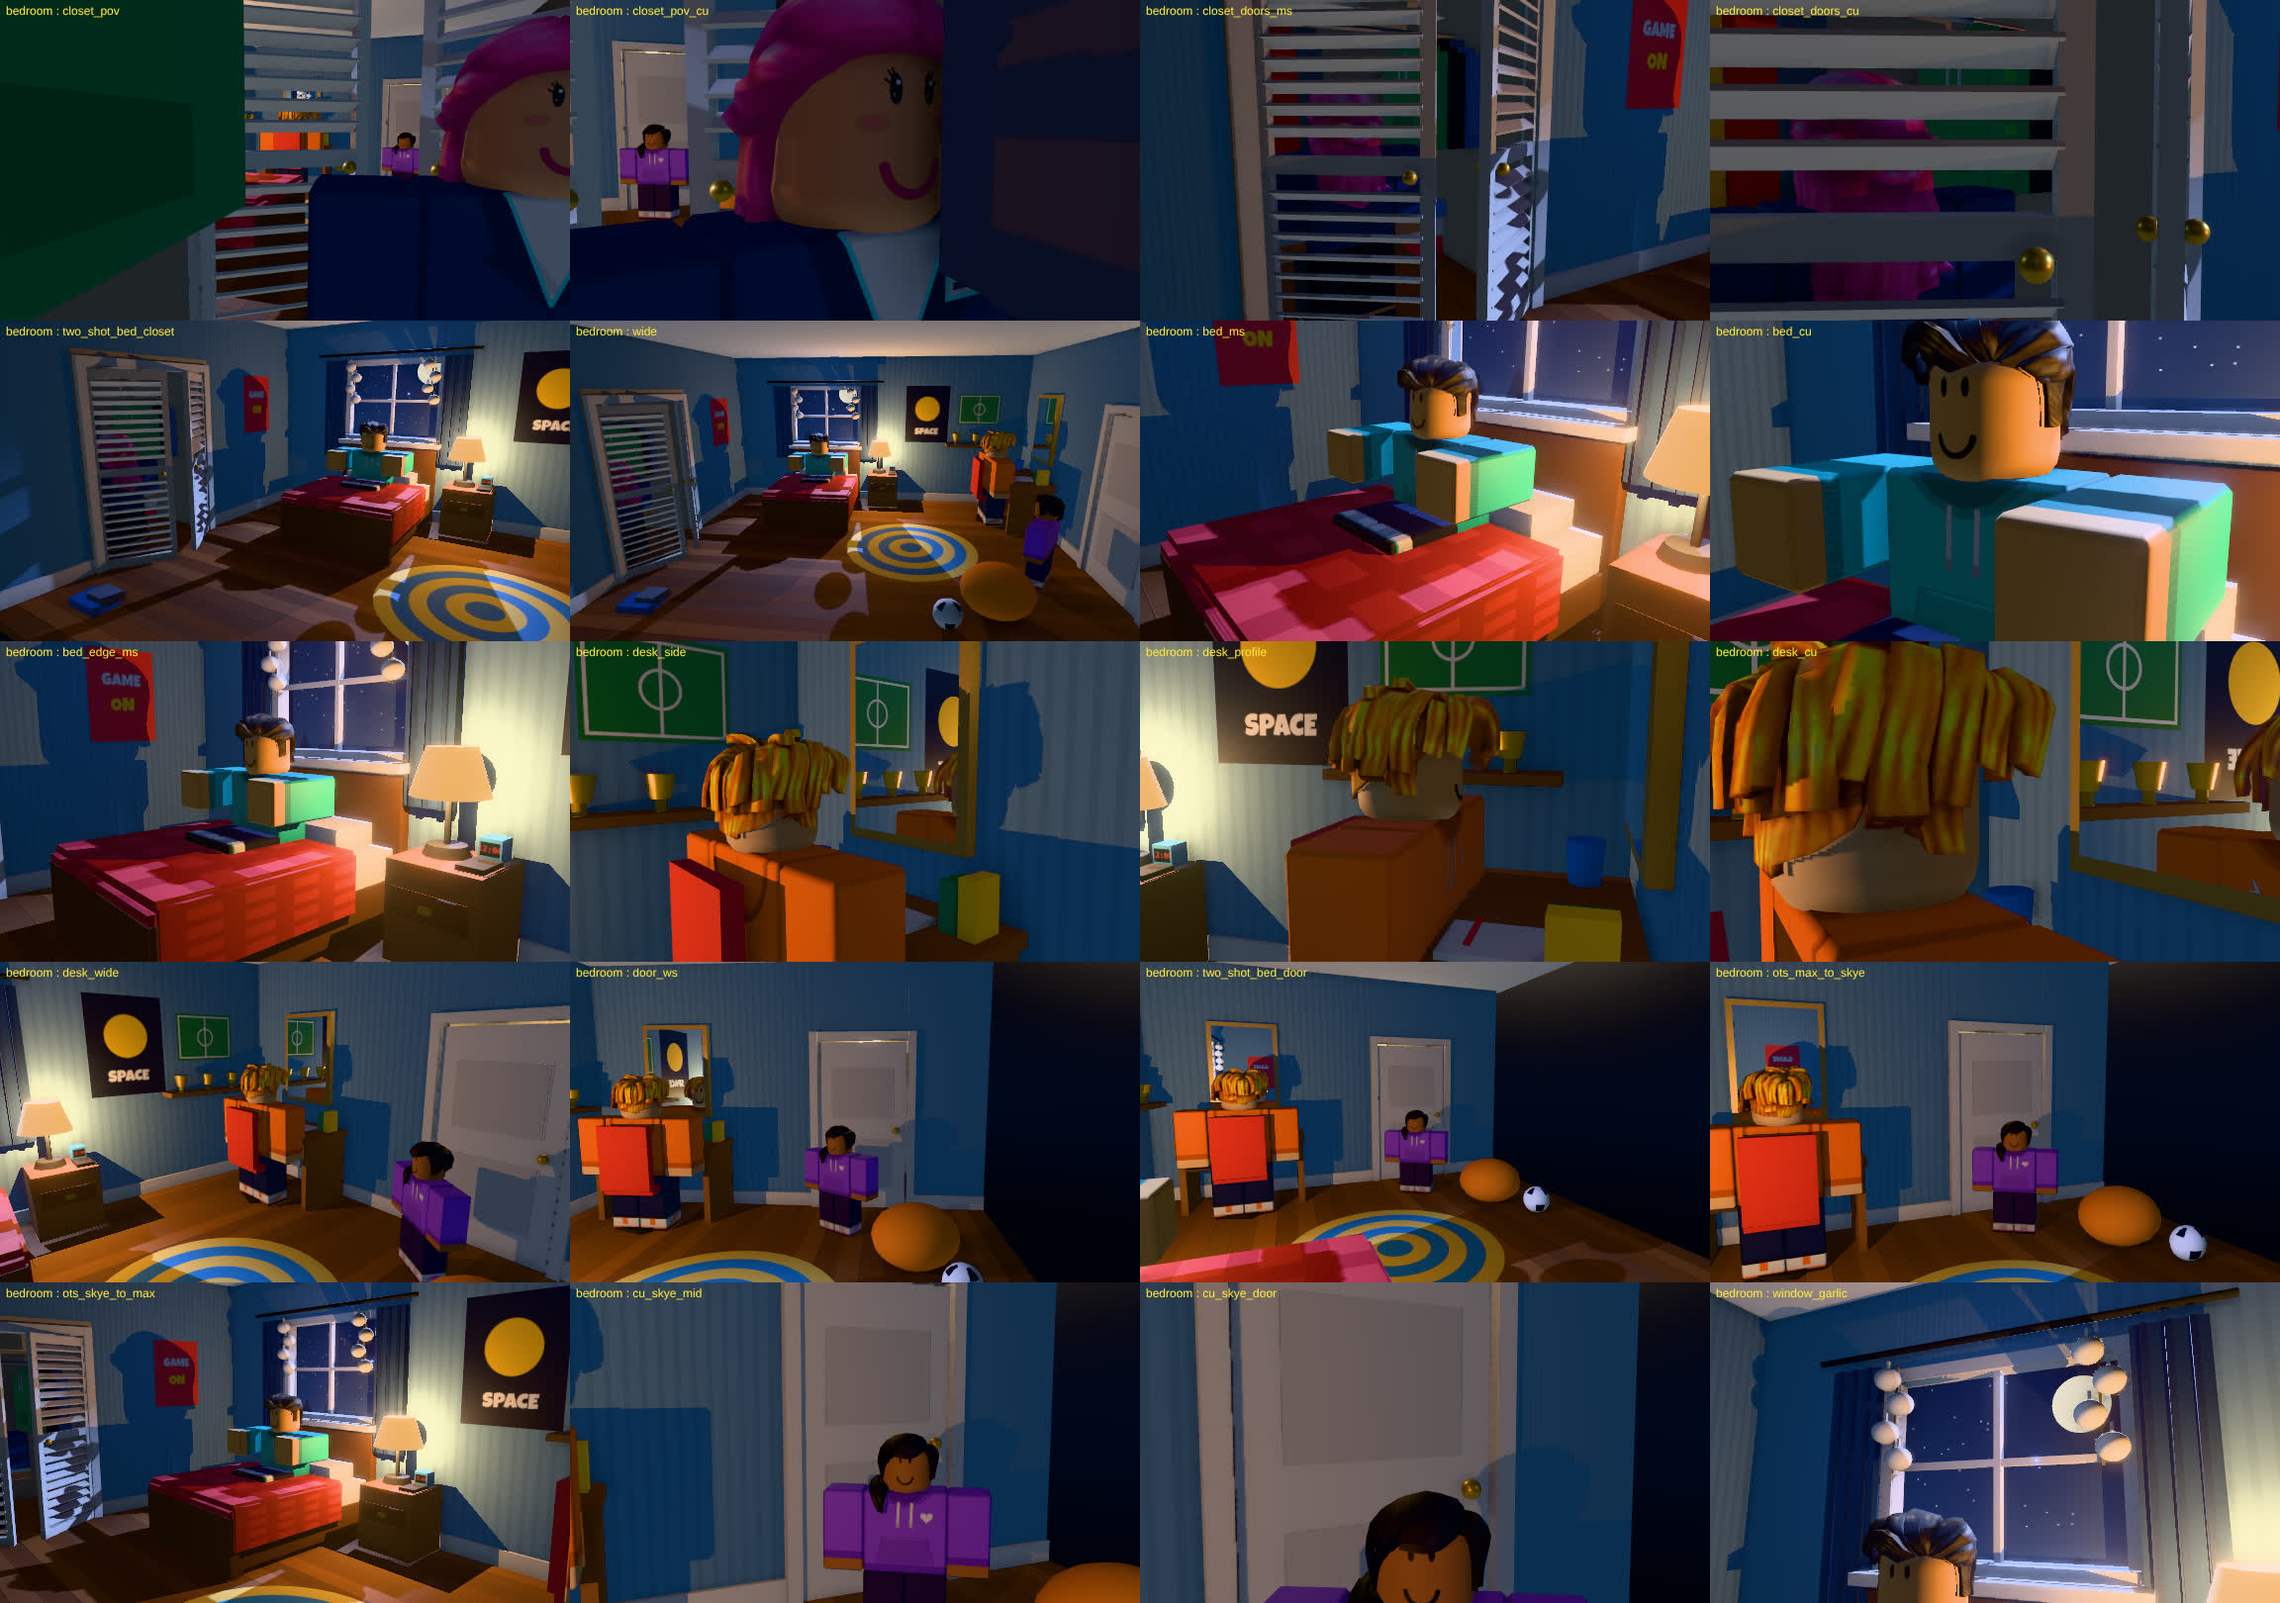
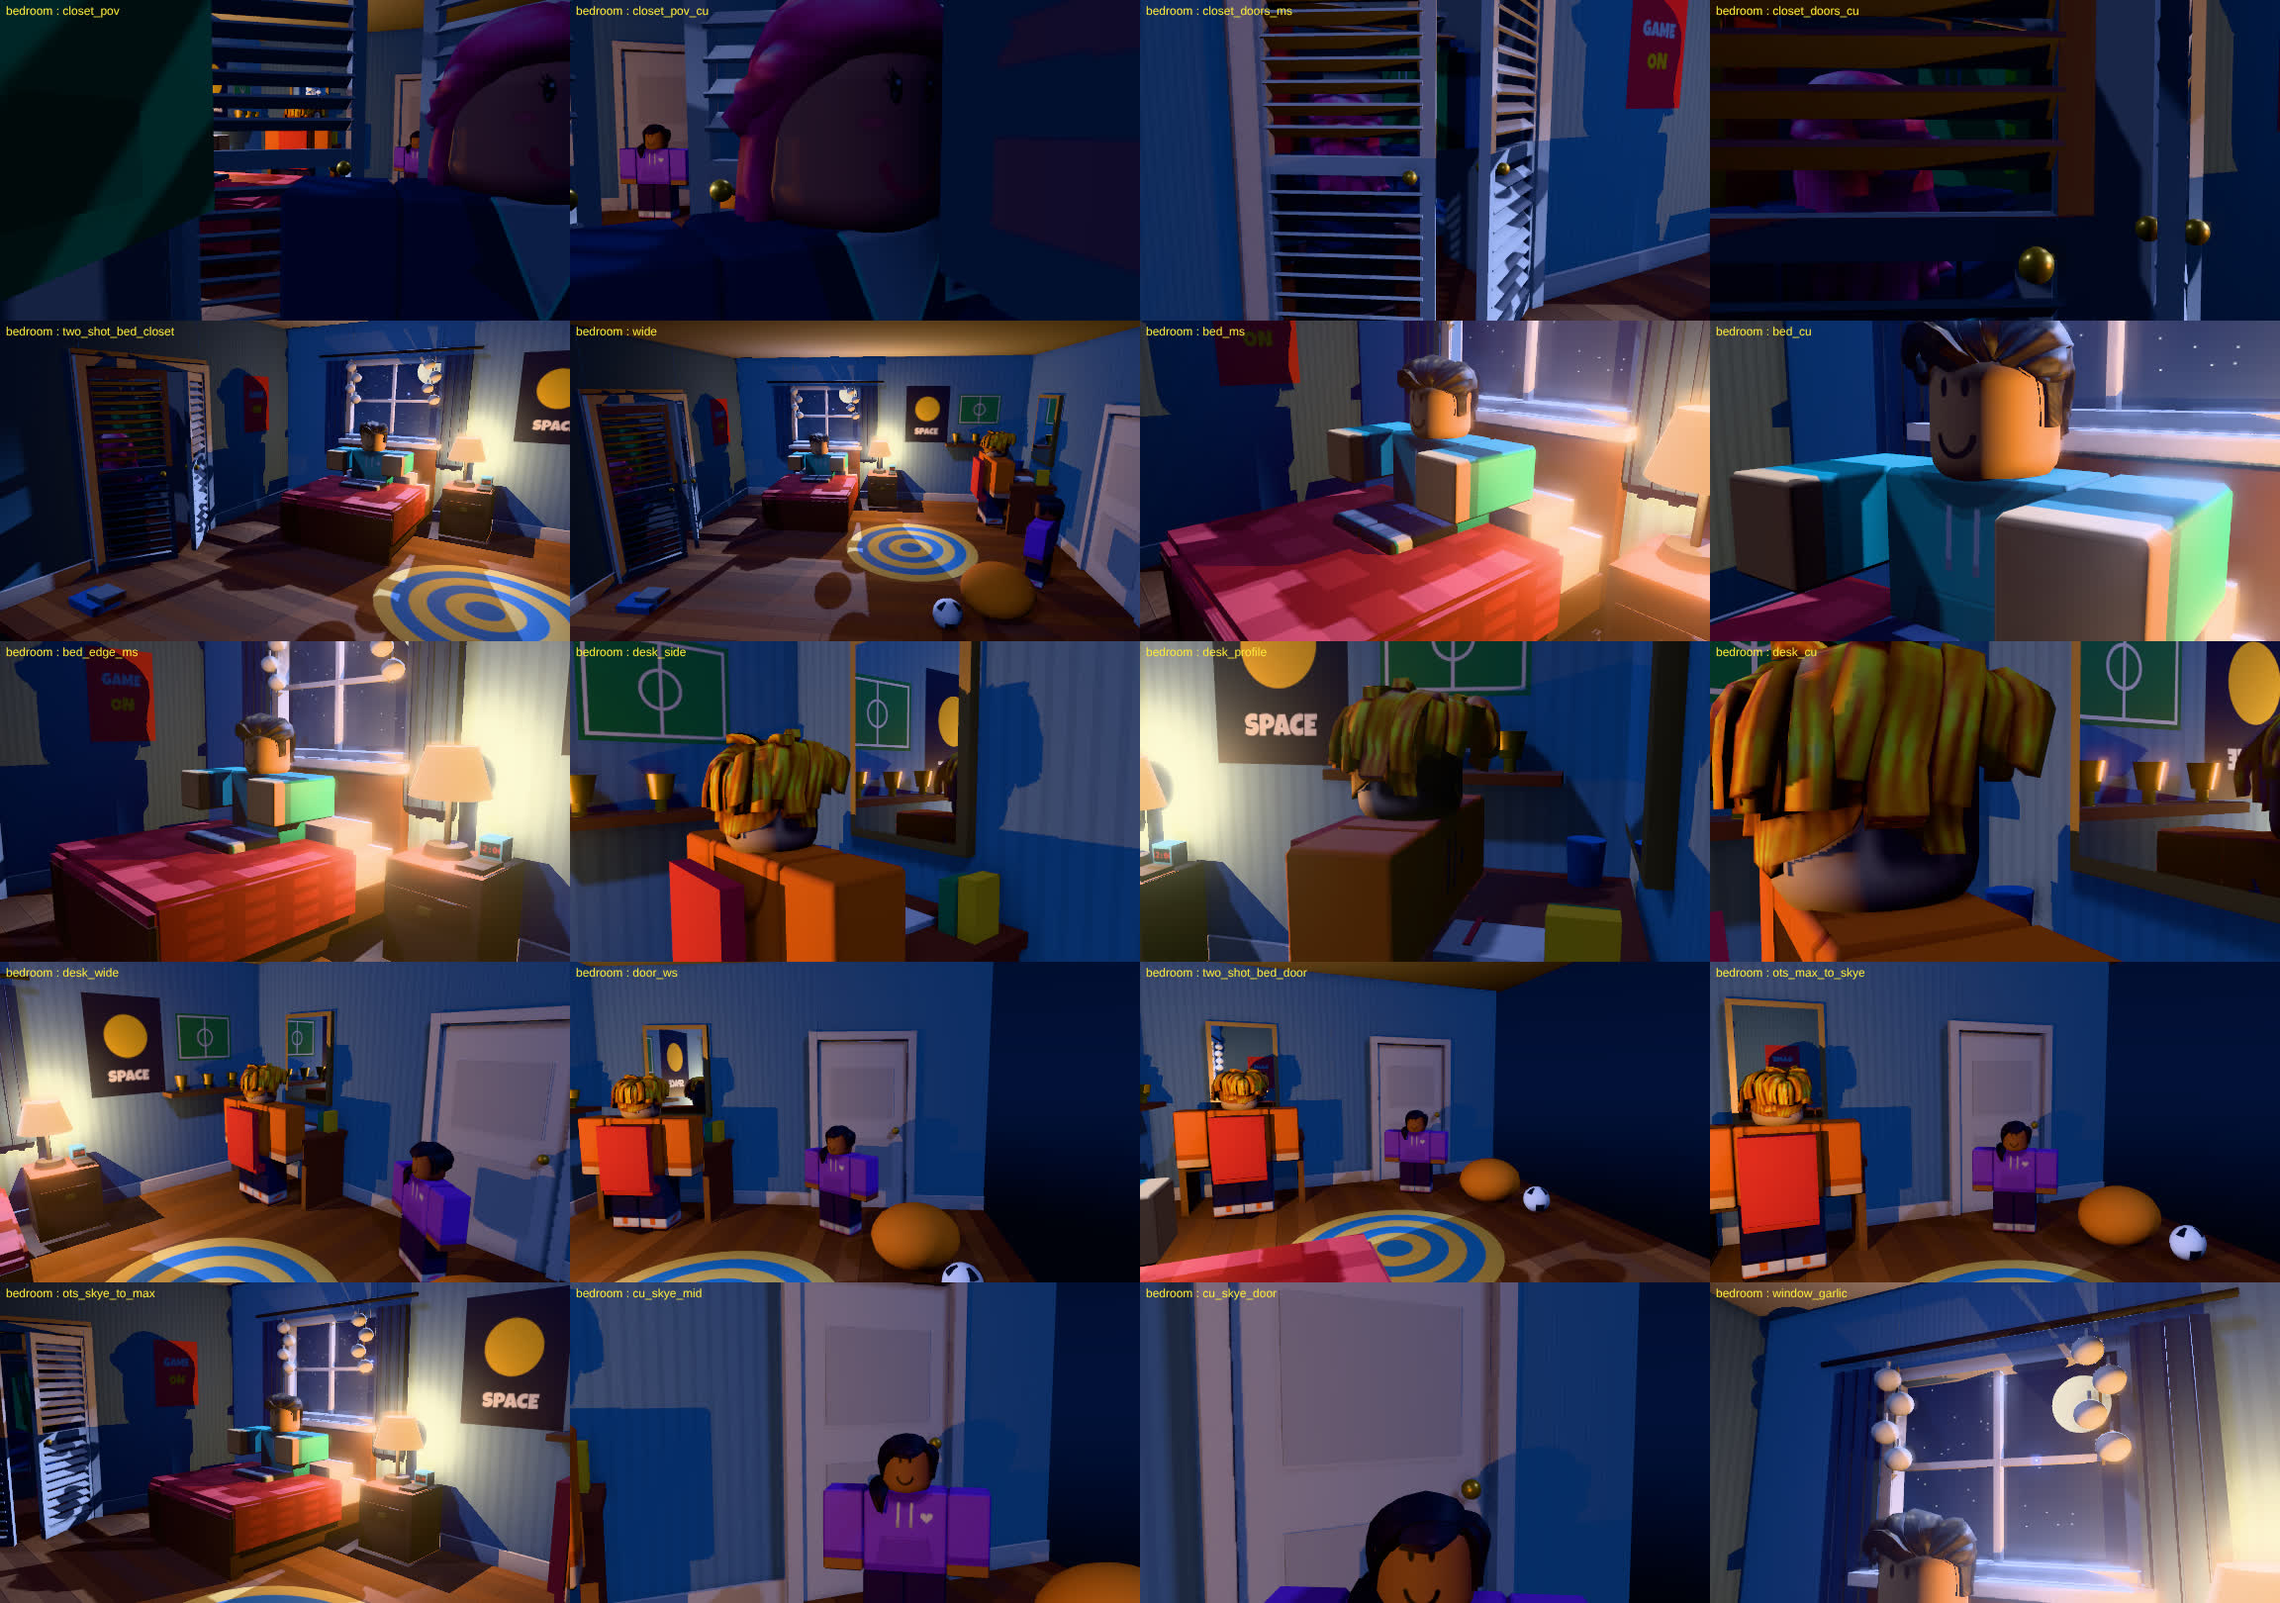
kit-sets-a: set lights as kit practicals (bedside_lamp, moon_window, under_door, ceiling_light, ...), linen closet on the end wall, cam fixes

diff --git a/roblox-shorts-studio/projects/i-secretly-lived-in-my-enemys-house/web/kit/sets/hallway.js b/roblox-shorts-studio/projects/i-secretly-lived-in-my-enemys-house/web/kit/sets/hallway.js
@@ -65,7 +65,6 @@ export function build(scene) {
     lower.position.x = HATCH_LEN - L2 + L2 * ease(fe); // slides out of the top section toward the floor
     lower.visible = fp > 0.02;
     cord.visible = fp < 0.98;
-    hatchGlow.intensity = hatchGlowK * fp;
   }
   // a point on the ladder for climbing: u 0 = floor, 1 = hinge (ceiling). The root goes on the rung, facing the ladder (-x).
   const hinge = V(HATCH_X0, H, 0), foot = V(HATCH_X0 + LADDER_LEN * Math.cos(HATCH_ANGLE), 0, 0);
@@ -85,7 +84,7 @@ export function build(scene) {
   group.add(box(5, H, 0.4, lilyRoomM, 6, H / 2, -9.5, false), box(0.4, H, 4.5, lilyRoomM, 3.5, H / 2, -7.2, false), box(0.4, H, 4.5, lilyRoomM, 8.5, H / 2, -7.2, false), box(5, 0.4, 4.5, floorMat('#b98c5e', 3, [1, 1]), 6, -0.2, -7.2, false));
   // lamplight under Max's door: a bright strip in the gap and a warm spill on the floor; a light inside the room
   const gapM = std('#ffd59a', { emissive: '#ffb860', emissiveIntensity: 0 }); const gap = box(3.9, 0.12, 0.3, gapM, -9, 0.07, -5.05, false); group.add(gap);
-  const spillM = new THREE.MeshBasicMaterial({ transparent: true, opacity: 0, depthWrite: false, blending: THREE.AdditiveBlending, map: canvasTexture(256, 128, (c, w, h) => { const g = c.createRadialGradient(w / 2, 0, 4, w / 2, 0, w * 0.55); g.addColorStop(0, 'rgba(255,190,110,1)'); g.addColorStop(1, 'rgba(255,190,110,0)'); c.fillStyle = g; c.fillRect(0, 0, w, h); }) });
+  const spillM = new THREE.MeshStandardMaterial({ color: '#000000', transparent: true, depthWrite: false, blending: THREE.AdditiveBlending, emissive: '#ffffff', emissiveIntensity: 0, emissiveMap: canvasTexture(256, 128, (c, w, h) => { const g = c.createRadialGradient(w / 2, 0, 4, w / 2, 0, w * 0.55); g.addColorStop(0, 'rgba(255,190,110,1)'); g.addColorStop(1, 'rgba(255,190,110,0)'); c.fillStyle = g; c.fillRect(0, 0, w, h); }) });
   const spill = plane(6.5, 3.2, spillM, -9, 0.06, -3.4); spill.rotation.x = -Math.PI / 2; group.add(spill);
   const roomLight = new THREE.PointLight('#ffc27a', 0, 9, 1.8); roomLight.position.set(-9, 2.5, -7.5); group.add(roomLight);
   const underLight = new THREE.PointLight('#ffb86a', 0, 6, 2); underLight.position.set(-9, 0.4, -4.3); group.add(underLight);
@@ -134,16 +133,24 @@ export function build(scene) {
   const moon = new THREE.SpotLight('#9db8ff', 0, 40, 0.55, 0.7, 1.2); moon.position.set(2, 12, -16); moon.target.position.set(-1, 0, 2.5); moon.castShadow = true; moon.shadow.mapSize.set(1024, 1024); moon.shadow.bias = -0.001; group.add(moon, moon.target);
   const moonFill = new THREE.PointLight('#5b74b8', 0, 40, 1.4); moonFill.position.set(-6, 8, 2); group.add(moonFill);
   const hatchGlowK = 6; const hatchGlow = new THREE.PointLight('#8a7a6a', 0, 10, 2); hatchGlow.position.set(-2, H + 1.5, 0); group.add(hatchGlow);
-  const lights = { moon, moonFill, underDoor: underLight, maxRoom: roomLight, nightlight: nlLight, ceiling: ceilLight, hatchGlow, linen: linenLight };
+  // authored (full) intensities; K.applyLight / K.setPractical scale them by userData.base (remembered on first use)
+  moon.intensity = 300; moonFill.intensity = 8;
+  underLight.intensity = 6; roomLight.intensity = 25; gapM.emissiveIntensity = 2.2; spillM.emissiveIntensity = 0.55; underLight.userData.bulb = [gap, spill];
+  nlLight.intensity = 3; nl.material.emissiveIntensity = 1.5; nlLight.userData.bulb = nl;
+  ceilLight.intensity = 80; ceilShadeM.emissiveIntensity = 1.2; ceilLight.userData.bulb = ceilLamp.children[0];
+  hatchGlow.intensity = hatchGlowK; linenLight.intensity = 1.2;
+  const lights = { moon_window: { lights: [moon, moonFill] }, under_door: { lights: [underLight, roomLight] }, nightlight: nlLight, ceiling_light: ceilLight, attic_glow: hatchGlow, linen_fill: linenLight };
+  function prac(name, on, k = 1) { // same rule as lighting.js setPractical
+    const l = lights[name]; const v = on === true ? k : on === false ? 0 : Number(on);
+    for (const L of [].concat(l.isLight ? l : l.lights)) { L.userData.base ??= L.intensity; L.intensity = L.userData.base * v; L.visible = v > 0;
+      for (const m of [].concat(L.userData.bulb || [])) { m.material.userData.base ??= m.material.emissiveIntensity; m.material.emissiveIntensity = m.material.userData.base * (v > 0 ? Math.max(v, 0.15) : 0); } }
+  }
+  const setMoon = (on, k) => prac('moon_window', on, k), setUnderDoor = (on, k) => prac('under_door', on, k), setNightlight = (on) => prac('nightlight', on), setCeiling = (on, k) => prac('ceiling_light', on, k);
 
-  function setMoon(on, k = 1) { const v = on ? k : 0; moon.intensity = 300 * v; moonFill.intensity = 8 * v; }
-  function setUnderDoor(on, k = 1) { const v = on ? k : 0; gapM.emissiveIntensity = 2.2 * v; spillM.opacity = 0.55 * v; underLight.intensity = 6 * v; roomLight.intensity = 25 * v; }
-  function setNightlight(on) { nl.material.emissiveIntensity = on ? 1.5 : 0; nlLight.intensity = on ? 3 : 0; }
-  function setCeiling(on, k = 1) { const v = on ? k : 0; ceilShadeM.emissiveIntensity = 1.2 * v; ceilLight.intensity = 80 * v; }
   function setMaxDoor(f = 0) { maxDoor.rotation.y = f * 1.6; } // opens into Max's room (-z)
   function setLilyDoor(f = 0) { lilyDoor.rotation.y = f * 1.6; }
-  function setLinen(f = 0) { linenDoor.rotation.y = -Math.PI / 2 + f * 1.7; linenLight.intensity = f > 0.02 && f < 0.6 ? 1.2 : 0; } // 0 shut, ~0.12 a crack to peek through, 1 wide open (outward, +z)
-  setMoon(true); setUnderDoor(false); setNightlight(true); setCeiling(false); setMaxDoor(0); setLilyDoor(0); setLinen(0); setHatch(0);
+  function setLinen(f = 0) { linenDoor.rotation.y = -Math.PI / 2 + f * 1.7; } // 0 shut, ~0.12 a crack to peek through, 1 wide open (outward, +z)
+  setMoon(true); setUnderDoor(false); setNightlight(true); setCeiling(false); prac('attic_glow', false); prac('linen_fill', false); setMaxDoor(0); setLilyDoor(0); setLinen(0); setHatch(0);
 
   // ---- marks (world) ----
   const M = (x, y, z, heading, note) => ({ pos: W(x, y, z), heading, note });

diff --git a/roblox-shorts-studio/projects/i-secretly-lived-in-my-enemys-house/web/kit/sets/bedroom.js b/roblox-shorts-studio/projects/i-secretly-lived-in-my-enemys-house/web/kit/sets/bedroom.js
@@ -212,16 +212,24 @@ export function build(scene) {
   const lamp = new THREE.PointLight('#ffc27a', 0, 26, 1.6); lamp.position.set(0.3, 4.1, -7.6); lamp.castShadow = true; lamp.shadow.mapSize.set(1024, 1024); lamp.shadow.bias = -0.002; group.add(lamp);
   const moonLight = new THREE.SpotLight('#9db8ff', 0, 40, 0.5, 0.6, 1.2); moonLight.position.set(-2.5, 11.5, -16); moonLight.target.position.set(-3.5, 1.5, -2.5); moonLight.castShadow = true; moonLight.shadow.mapSize.set(1024, 1024); moonLight.shadow.bias = -0.001; group.add(moonLight, moonLight.target);
   const moonFill = new THREE.PointLight('#5b74b8', 0, 30, 1.5); moonFill.position.set(-4, 7, -6); group.add(moonFill);
-  const lights = { lamp, moon: moonLight, moonFill, hall: hallLight, closet: closetLight };
+  // authored (full) intensities; K.applyLight / K.setPractical scale them by userData.base (remembered on first use)
+  lamp.intensity = 60; shadeOff.emissiveIntensity = 0.9; bulb.material.emissiveIntensity = 2.5; lamp.userData.bulb = [shade, bulb];
+  moonLight.intensity = 260; moonFill.intensity = 10;
+  hallLight.intensity = 40; hallPanel.material.emissiveIntensity = 1.5; hallLight.userData.bulb = hallPanel;
+  closetLight.intensity = 6;
+  const lights = { bedside_lamp: lamp, moon_window: { lights: [moonLight, moonFill] }, hall_light: hallLight, closet_light: closetLight };
+  function prac(name, on, k = 1) { // same rule as lighting.js setPractical
+    const l = lights[name]; const v = on === true ? k : on === false ? 0 : Number(on);
+    for (const L of [].concat(l.isLight ? l : l.lights)) { L.userData.base ??= L.intensity; L.intensity = L.userData.base * v; L.visible = v > 0;
+      for (const m of [].concat(L.userData.bulb || [])) { m.material.userData.base ??= m.material.emissiveIntensity; m.material.emissiveIntensity = m.material.userData.base * (v > 0 ? Math.max(v, 0.15) : 0); } }
+  }
+  const setLamp = (on, k) => prac('bedside_lamp', on, k), setMoon = (on, k) => prac('moon_window', on, k), setHall = (on, k) => prac('hall_light', on, k);
 
-  function setLamp(on, k = 1) { const v = on ? k : 0; lamp.intensity = 60 * v; shadeOff.emissiveIntensity = 0.9 * v; bulb.material.emissiveIntensity = 2.5 * v; }
-  function setMoon(on, k = 1) { const v = on ? k : 0; moonLight.intensity = 260 * v; moonFill.intensity = 10 * v; }
-  function setHall(on, k = 1) { const v = on ? k : 0; hallLight.intensity = 40 * v; hallPanel.material.emissiveIntensity = 1.5 * v; }
   function setClosetDoors(fl = 0, fr = fl) { closetL.rotation.y = -Math.PI / 2 + fl * 1.9; closetR.rotation.y = Math.PI / 2 - fr * 1.9; } // 0 shut, 1 swung wide into the room
   function setDoor(f = 0) { doorLeaf.rotation.y = -Math.PI / 2 - f * 1.7; } // 0 shut, 1 open into the room (toward -x, leaf swings toward the desk side)
   function setBlanketUp(up) { blanketUp.visible = !!up; blanket.visible = !up; }
   function setClock(text) { const c = clockFace.material.map.image.getContext('2d'); c.fillStyle = '#111'; c.fillRect(0, 0, 128, 96); c.font = 'bold 54px monospace'; c.fillStyle = '#ff4a3a'; c.textAlign = 'center'; c.fillText(text, 64, 66); clockFace.material.map.needsUpdate = true; }
-  setLamp(false); setMoon(true); setHall(false); setClosetDoors(0); setDoor(0);
+  setLamp(false); setMoon(true); setHall(false); prac('closet_light', false); setClosetDoors(0); setDoor(0);
 
   // ---- marks (world) ----
   // sitting marks carry `seat` (the seat surface y, world) and pos.y = seat - 2.0 (R6 hip height at scale 1);

diff --git a/roblox-shorts-studio/projects/i-secretly-lived-in-my-enemys-house/production/previews/kit-sets-a/preview_clip.js b/roblox-shorts-studio/projects/i-secretly-lived-in-my-enemys-house/production/previews/kit-sets-a/preview_clip.js
@@ -3,13 +3,14 @@ import * as THREE from 'three';
 import { loadRobloxCharacter, loadAnimation, robloxPose } from '../../../../../web/lib/robloxPack.js';
 import * as bedroom from '../../../web/kit/sets/bedroom.js';
 import * as hallway from '../../../web/kit/sets/hallway.js';
+import { applyLight } from '../../../web/kit/lighting.js';
 const SET = new URL(import.meta.url).searchParams.get('set') || 'bedroom';
 export const meta = { seconds: 40 / 30, fps: 30, width: 1920, height: 1080 };
 export const sky = { zenith: '#05070f', horizon: '#0b1222', below: '#05070f', fog: '#05070f' };
 let S, names, A = {}, cast = {};
 export async function setup(stage) {
   const { scene } = stage;
-  stage.hemi.intensity = 0.25; stage.hemi.color.set('#8ea6d8'); stage.sun.intensity = 0.0; stage.fill.intensity = 0.25; stage.rim.intensity = 0.15; scene.environmentIntensity = 0.25; scene.fog = null;
+  stage.hemi.intensity = 0.25; stage.hemi.color.set('#8ea6d8'); stage.sun.intensity = 0.0; stage.fill.intensity = 0.25; stage.rim.intensity = 0.15; scene.environmentIntensity = 0.25;
   const b = bedroom.build(scene), h = hallway.build(scene);
   S = SET === 'bedroom' ? b : h; (SET === 'bedroom' ? h : b).group.visible = false;
   names = Object.keys(S.cams); meta.names = names;
@@ -29,6 +30,7 @@ export function update(t, stage) {
   const c = S.useCam(stage.camera, names[i]);
   stage.camera.aspect = 1920 / 1080; stage.camera.updateProjectionMatrix();
   stage.aimSun(c.target, 30);
+  applyLight(stage, SET === 'bedroom' ? 'midnight' : 'night_moon', { set: S, practicals: SET === 'bedroom' ? { bedside_lamp: true, moon_window: true } : { moon_window: true, under_door: true, nightlight: true, attic_glow: true, linen_fill: true } });
 }
 export function overlay(g, s, t) {
   const i = Math.min(names.length - 1, Math.round(t * 30));
